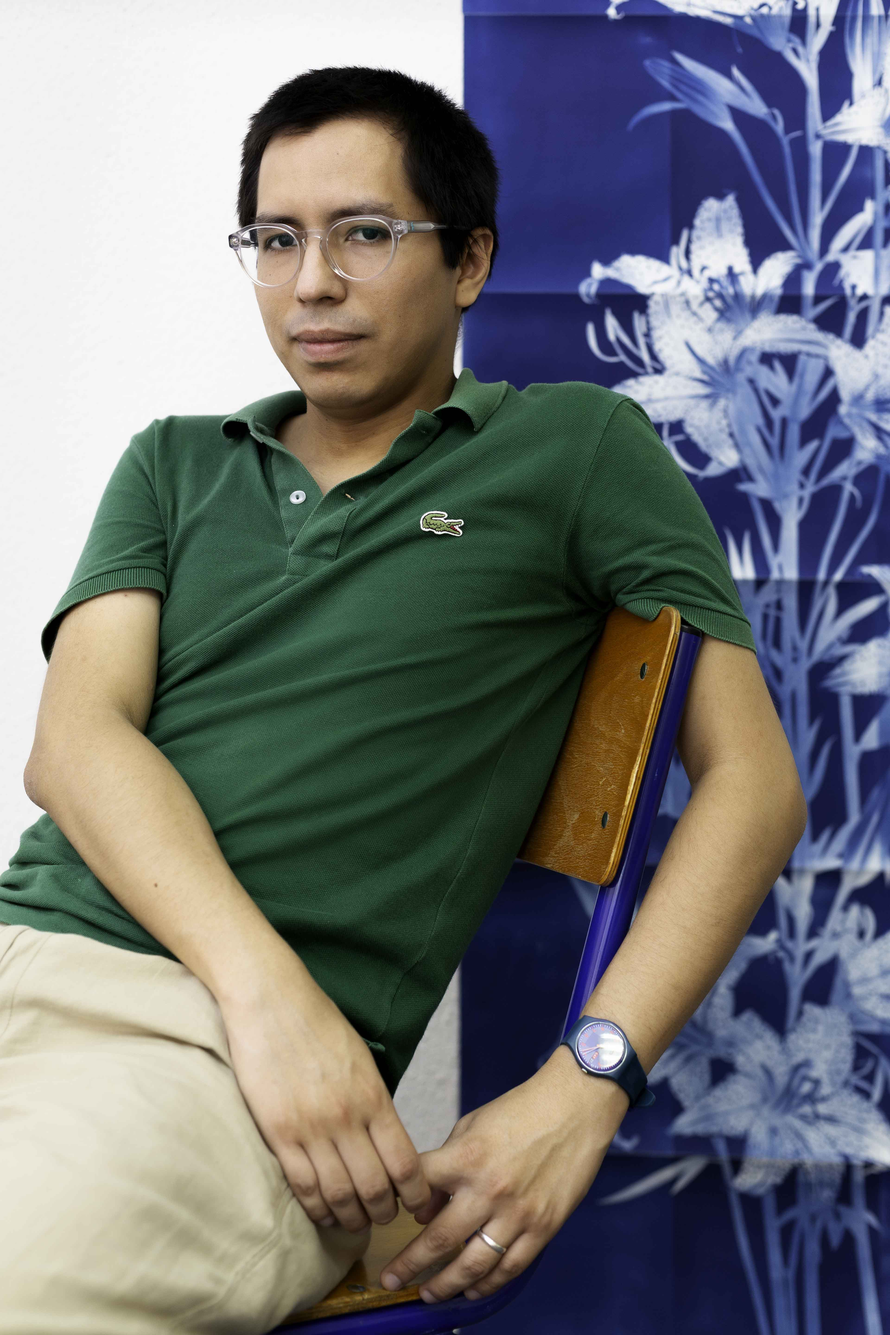
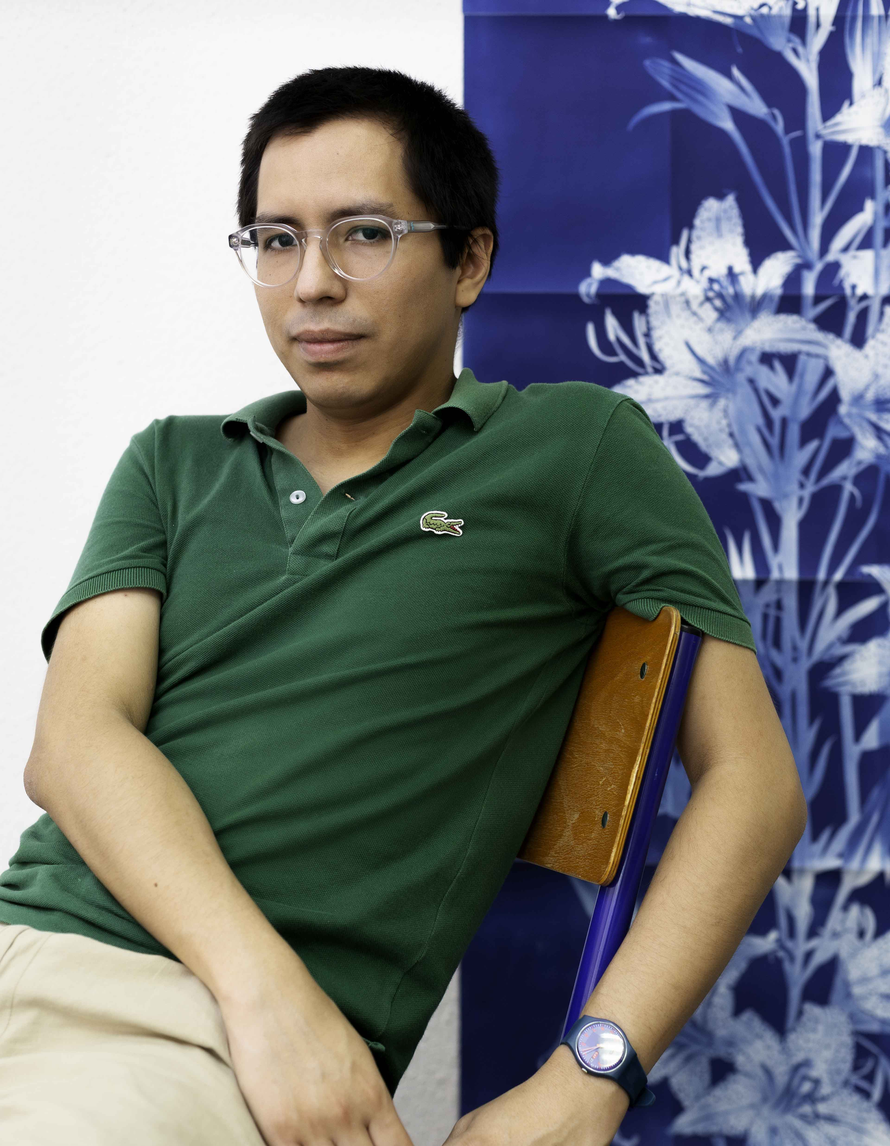
Update bio portrait photo to new version

diff --git a/index.html b/index.html
@@ -1317,7 +1317,7 @@
 <p>His early childhood in the Peruvian jungle greatly influenced his current practice around constructed nature and visual imaginaries.</p>
 <p>Ramírez was recently selected to join the 2027 class of Villa Albertine in the United States. As part of this program, he will undertake an artist residency in New York in April and May 2027</p>
 </div>
-<div class="bio-photo"><img src="images/portrait.jpg" alt="Portrait of César Augusto Ramírez"><span class="credit">© Clémence Purkat, 2026</span></div>
+<div class="bio-photo"><img src="images/portrait.jpg?v=2" alt="Portrait of César Augusto Ramírez"><span class="credit">© Clémence Purkat, 2026</span></div>
 </div>
 </section>
 <section class="section" id="press">
